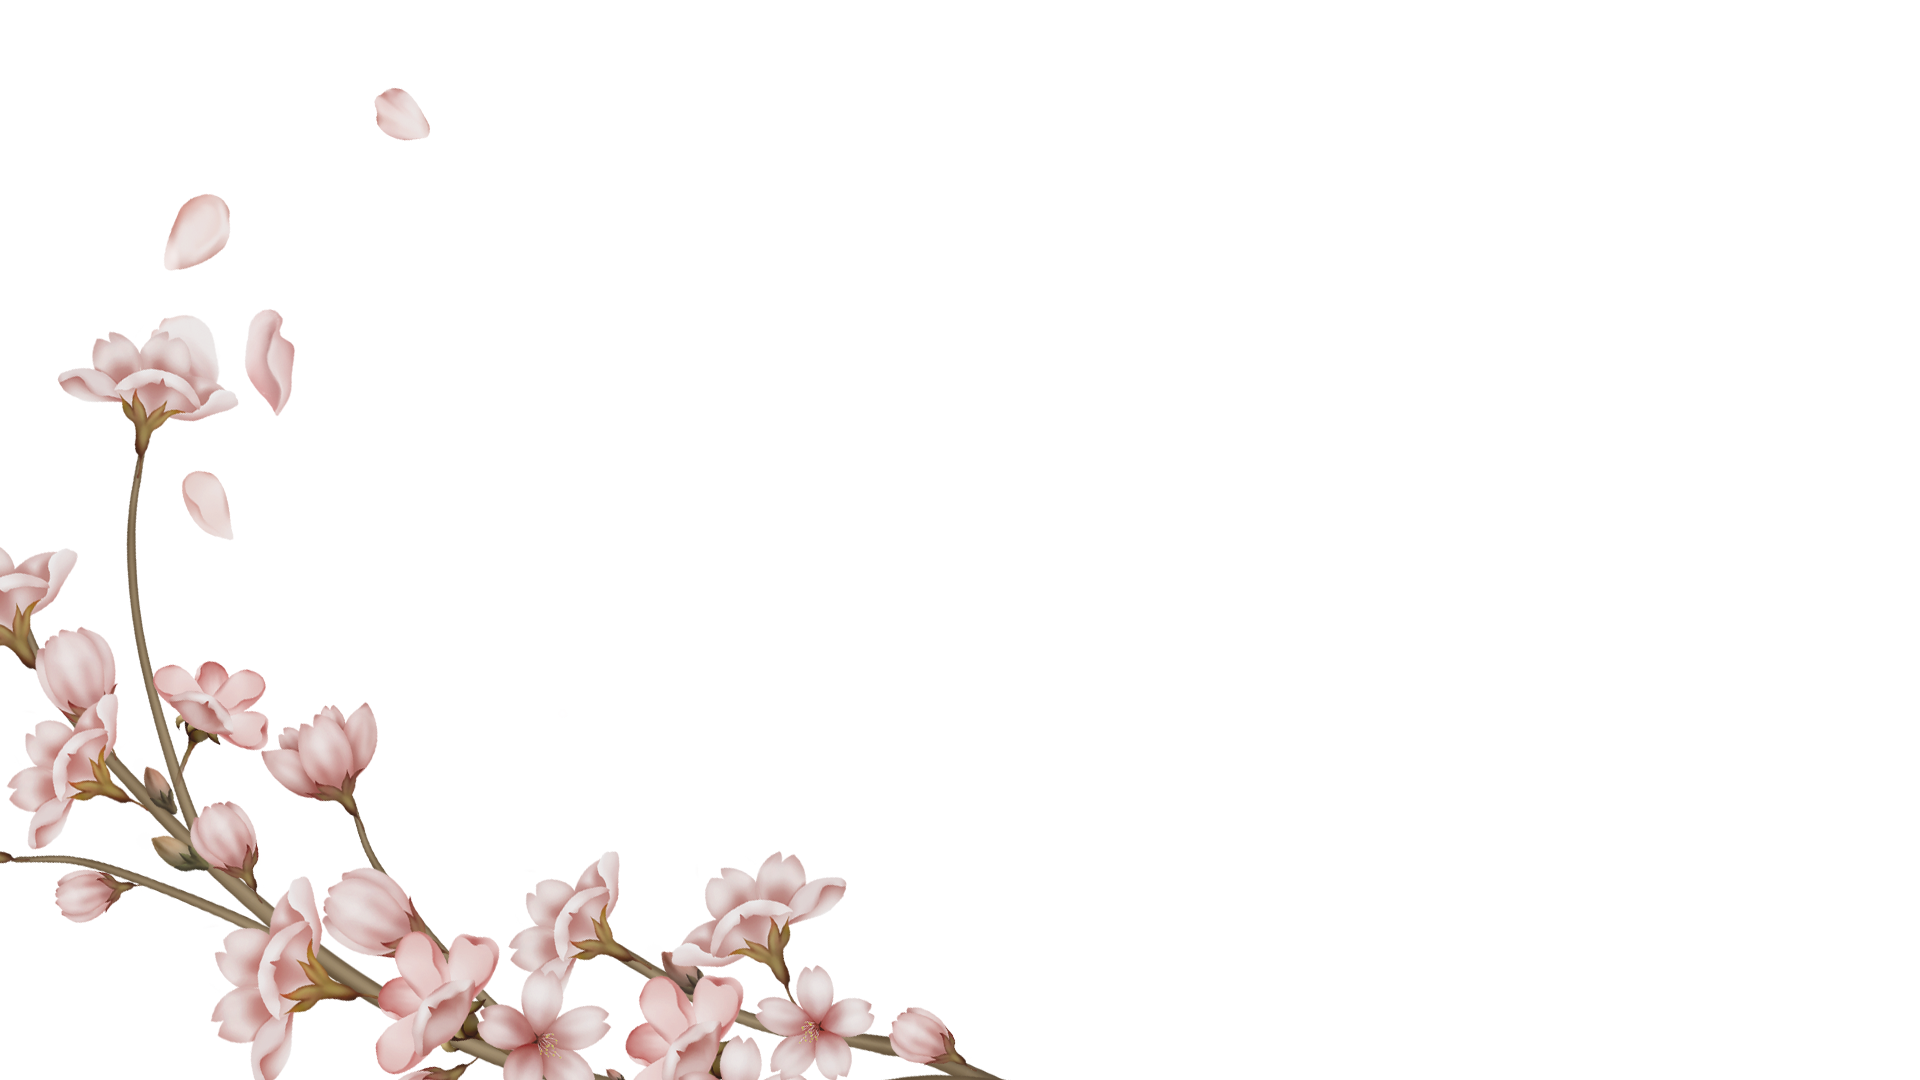
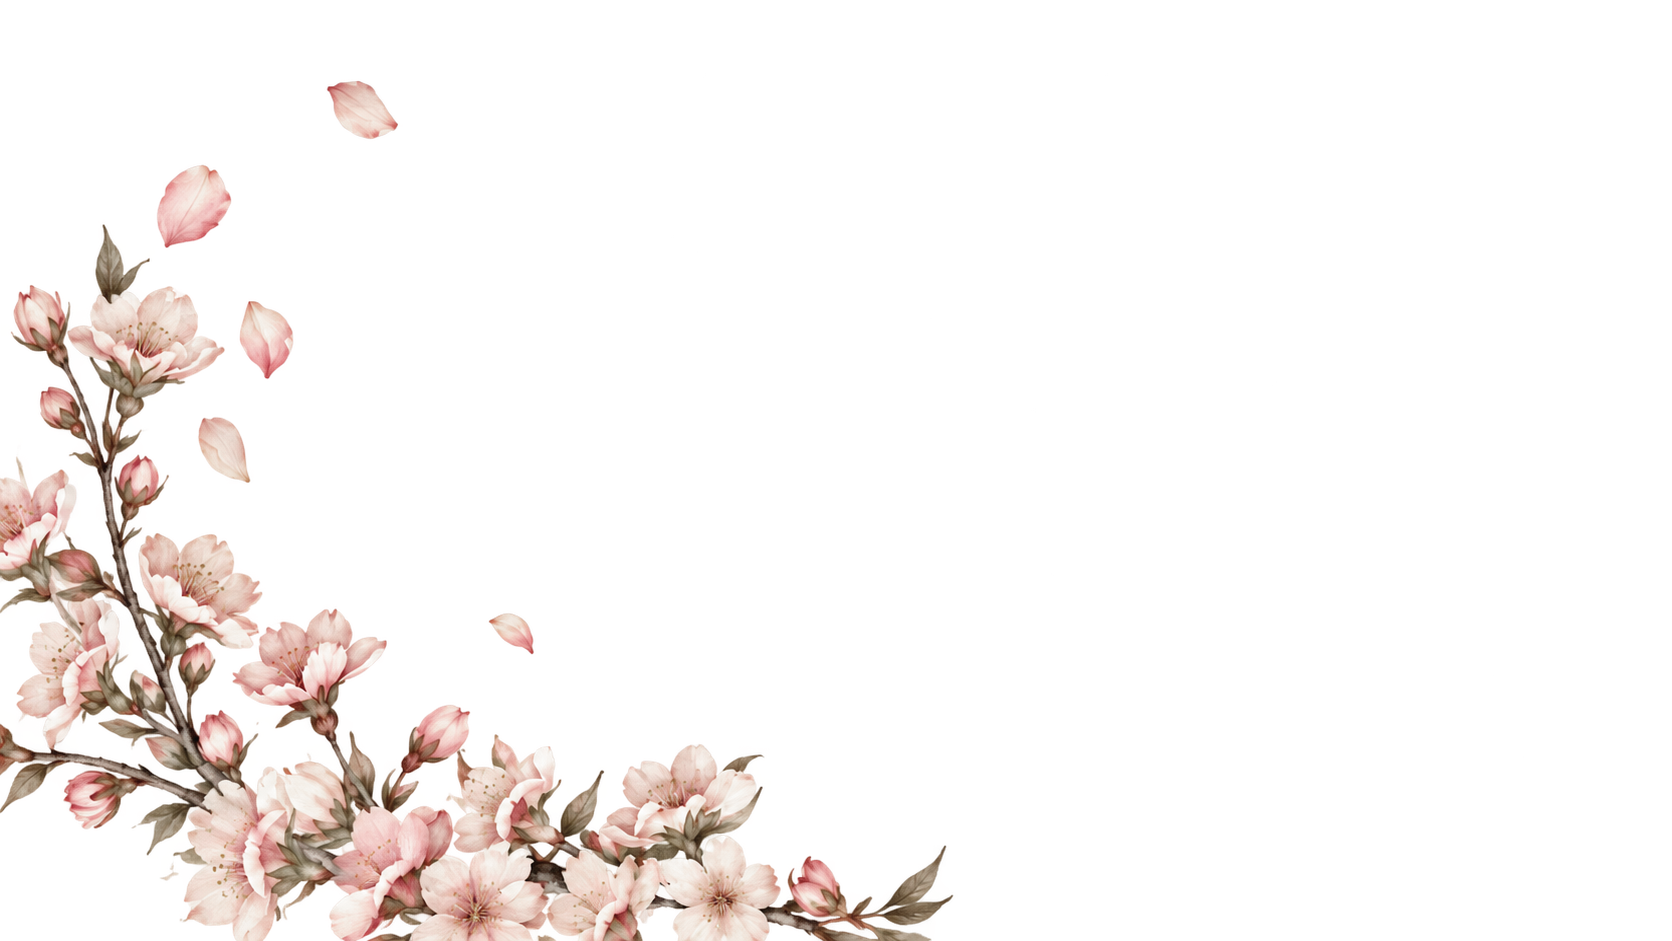
Improve responsive decorations and upload guidance

Changed region(s): [[0.0, 0.1541, 0.5598, 1.0], [0.1866, 0.0616, 0.2488, 0.1541], [0.2799, 0.6472, 0.3421, 0.7088]]

diff --git a/components/SectionDecor.tsx b/components/SectionDecor.tsx
@@ -15,32 +15,60 @@ const SIDE_CLASS: Record<Decoration["corner"], string> = {
   "bottom-right": "right-0",
 };
 
+const MOBILE_SIDE_CLASS: Record<Decoration["corner"], string> = {
+  "top-left": "top-0 left-0",
+  "top-right": "top-0 right-0",
+  "bottom-left": "bottom-0 left-0",
+  "bottom-right": "bottom-0 right-0",
+};
+
+const DESKTOP_SIDE_RESPONSIVE_CLASS: Record<Decoration["corner"], string> = {
+  "top-left": "md:left-0",
+  "top-right": "md:right-0",
+  "bottom-left": "md:left-0",
+  "bottom-right": "md:right-0",
+};
+
 // Decoración floral anclada al ancestro posicionado más cercano.
 // No intercepta clicks ni se puede seleccionar.
 export function SectionDecor({ items }: { items: Decoration[] }) {
-  if (!items?.length) return null;
+  const visibleItems = items?.filter((item) => !item.hidden) ?? [];
+  if (!visibleItems.length) return null;
 
   return (
     <>
-      {items.map((item, i) => {
+      {visibleItems.map((item, i) => {
         const key = `${item.src}-${item.corner}-${i}`;
 
         // "side": alto completo pegado al costado. El canvas es transparente,
         // así que el sobrante que se pasa del otro lado lo recorta el overflow.
         if (item.fit === "side") {
+          const mobileHidden = item.mobile === "hidden";
+          const mobileCorner = typeof item.mobile === "object" ? item.mobile.corner : null;
+          const mobileWidth =
+            typeof item.mobile === "object" && item.mobile.width === "small"
+              ? "w-[88%]"
+              : "w-[143%]";
+
           return (
             <span
               key={key}
               aria-hidden="true"
-              className={`pointer-events-none absolute inset-y-0 select-none ${SIDE_CLASS[item.corner]}`}
+              className={
+                mobileHidden
+                  ? `pointer-events-none absolute inset-y-0 hidden select-none md:block ${SIDE_CLASS[item.corner]}`
+                  : mobileCorner
+                    ? `pointer-events-none absolute aspect-[16/9] select-none ${MOBILE_SIDE_CLASS[mobileCorner]} ${mobileWidth} md:inset-y-0 md:w-auto md:aspect-[16/9] ${DESKTOP_SIDE_RESPONSIVE_CLASS[item.corner]}`
+                    : `pointer-events-none absolute inset-y-0 aspect-[16/9] select-none ${SIDE_CLASS[item.corner]}`
+              }
             >
               <Image
                 src={item.src}
                 alt=""
-                width={item.width}
-                height={item.height}
                 sizes="(max-width: 768px) 100vw, 60vw"
-                className="h-full w-auto max-w-none"
+                fill
+                unoptimized
+                className="object-contain"
               />
             </span>
           );
@@ -59,13 +87,14 @@ export function SectionDecor({ items }: { items: Decoration[] }) {
           <span
             key={key}
             aria-hidden="true"
-            className={`pointer-events-none absolute select-none ${CORNER_CLASS[item.corner]} ${size}`}
+            className={`${item.mobile === "hidden" ? "hidden md:block" : ""} pointer-events-none absolute select-none ${CORNER_CLASS[item.corner]} ${size}`}
           >
             <Image
               src={item.src}
               alt=""
               width={item.width}
               height={item.height}
+              unoptimized
               sizes={sizes}
               className="h-auto w-full"
             />

diff --git a/lib/event-data.ts b/lib/event-data.ts
@@ -24,6 +24,11 @@ export type Decoration = {
   // "side": alto completo, el arte se pega al costado (el canvas es
   // transparente, así que el sobrante se recorta sin verse).
   fit?: "corner" | "side";
+  mobile?: {
+    corner: DecorCorner;
+    width?: "small" | "default";
+  } | "hidden";
+  hidden?: boolean;
 };
 
 export type WeddingEvent = {
@@ -44,6 +49,7 @@ export type WeddingEvent = {
   decor: {
     history: Decoration[];
     schedule: Decoration[];
+    faq: Decoration[];
     ceremony: Decoration[];
   };
 };
@@ -82,16 +88,47 @@ export const weddingEvent: WeddingEvent = {
   decor: {
     // "Te invitamos a ser parte"
     history: [
-      { src: "/decor/rose-bottom-right.png", corner: "bottom-right", width: 2500, height: 2500 },
+      {
+        src: "/decor/rose-bottom-right.png",
+        corner: "bottom-right",
+        width: 2500,
+        height: 2500,
+        mobile: "hidden",
+        hidden: true,
+      },
     ],
     // Cronograma — un asset por costado, pegados al borde y a alto completo
     schedule: [
-      { src: "/decor/cherry-top-right.png", corner: "top-right", width: 1920, height: 1080, fit: "side" },
-      { src: "/decor/cherry-bottom-left.png", corner: "bottom-left", width: 1920, height: 1080, fit: "side" },
+      {
+        src: "/decor/cherry-top-right.png",
+        corner: "top-right",
+        width: 1920,
+        height: 1080,
+        fit: "side",
+        mobile: { corner: "top-right", width: "default" },
+      },
+    ],
+    // Preguntas — la segunda rama cherry usa exactamente el mismo tamaño responsive.
+    faq: [
+      {
+        src: "/decor/cherry-bottom-left.png",
+        corner: "bottom-left",
+        width: 1920,
+        height: 1080,
+        fit: "side",
+        mobile: { corner: "bottom-left", width: "default" },
+      },
     ],
     // Ceremonia y festejo
     ceremony: [
-      { src: "/decor/rose-top-left.png", corner: "top-left", width: 2500, height: 2500 },
+      {
+        src: "/decor/rose-top-left.png",
+        corner: "top-left",
+        width: 2500,
+        height: 2500,
+        mobile: "hidden",
+        hidden: true,
+      },
     ],
   },
 };

diff --git a/components/CameraUploader.tsx b/components/CameraUploader.tsx
@@ -312,6 +312,28 @@ export function CameraUploader({ slug, qr }: Props) {
             <h1 className="font-serif text-4xl text-ink" style={{ textWrap: "balance" }}>
               ¿Vincularse a la {tableName ?? `mesa ${tableNumber ?? ""}`}?
             </h1>
+            <div className="w-full text-left">
+              <h2 className="font-sans text-sm tracking-[0.2em] text-bronze uppercase">
+                ¿Cómo funciona?
+              </h2>
+              <ol className="mt-3 flex flex-col gap-2 text-base leading-relaxed text-ink/70 sm:text-lg">
+                <li className="flex gap-3">
+                  <span className="font-serif text-xl text-bronze">1.</span>
+                  <span>Sacá la foto, confirmá y subí.</span>
+                </li>
+                <li className="flex gap-3">
+                  <span className="font-serif text-xl text-bronze">2.</span>
+                  <span>Tu límite de fotos va a estar visible todo el tiempo.</span>
+                </li>
+                <li className="flex gap-3">
+                  <span className="font-serif text-xl text-bronze">3.</span>
+                  <span>Las fotos se van a proyectar en la pantalla.</span>
+                </li>
+              </ol>
+              <p className="mt-3 text-sm leading-relaxed text-ink/55 sm:text-base">
+                Pueden tardar unos segundos en aparecer.
+              </p>
+            </div>
             <p className="text-base text-ink/70 sm:text-lg">
               Este dispositivo va a quedar ligado a esta mesa durante toda la
               fiesta para subir sus fotos.

diff --git a/app/[slug]/page.tsx b/app/[slug]/page.tsx
@@ -137,8 +137,9 @@ export default async function Page({ params, searchParams }: Props) {
       </SplitSection>
 
       {/* 5. FAQ */}
-      <section className="flex min-h-dvh snap-start flex-col items-center justify-center px-6">
-        <div className="w-[300px] sm:w-[400px]">
+      <section className="relative flex min-h-dvh snap-start flex-col items-center justify-center overflow-hidden px-6">
+        <SectionDecor items={event.decor.faq} />
+        <div className="relative z-20 w-[300px] sm:w-[400px]">
           <Reveal>
             <h2 className="font-serif text-4xl text-ink sm:text-5xl" style={{ textWrap: "balance" }}>Preguntas</h2>
           </Reveal>
